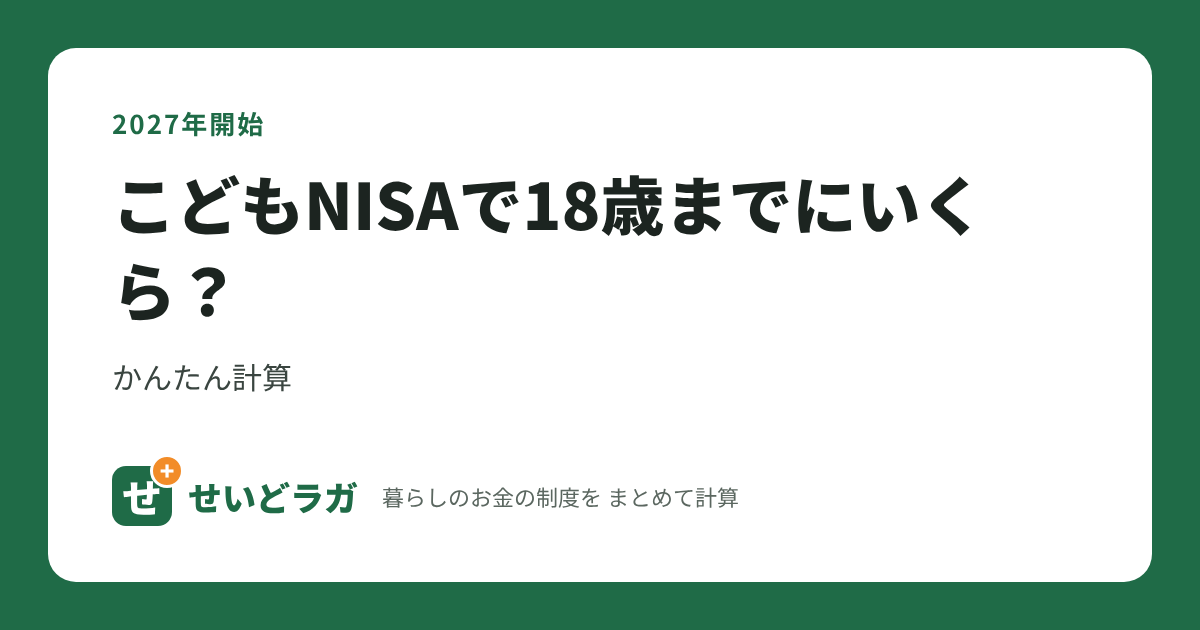
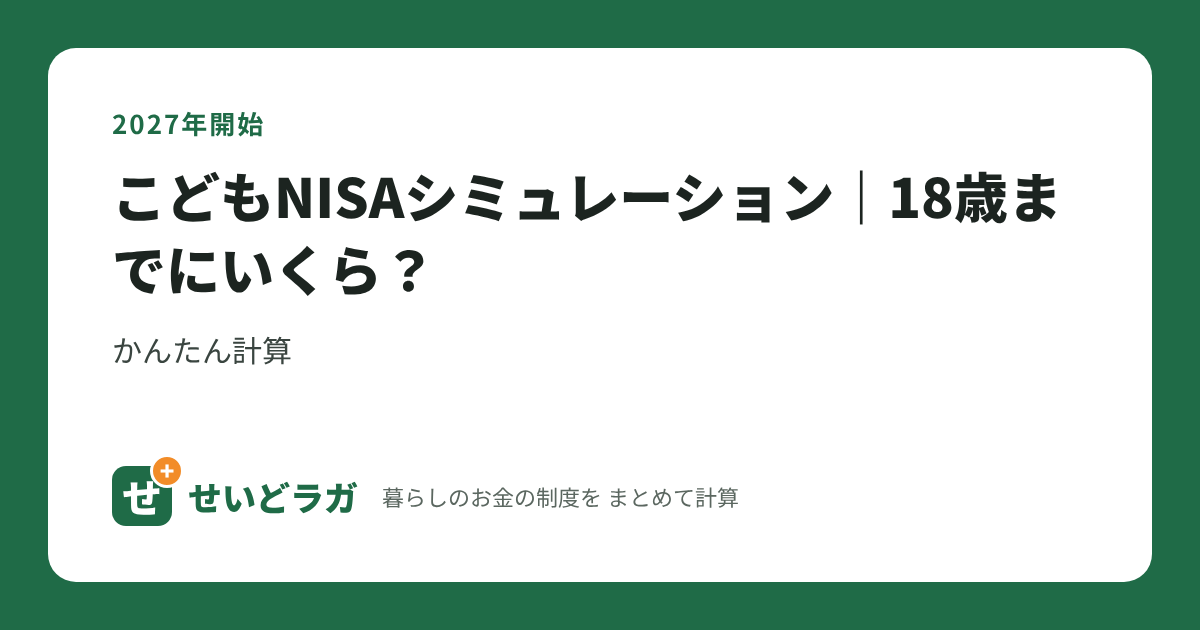
SEO：遺族年金の早見表（夫の年金月額別）・こどもNISAのタイトル

Changed region(s): [[0.0925, 0.2714, 0.8942, 0.5127], [0.0925, 0.5127, 0.2467, 0.6333]]

diff --git a/kodomo-nisa/index.html b/kodomo-nisa/index.html
@@ -17,7 +17,7 @@
 <link rel="icon" href="/favicon.ico" sizes="48x48">
 <link rel="icon" type="image/png" sizes="192x192" href="/assets/icon-192.png">
 <link rel="apple-touch-icon" href="/assets/apple-touch-icon.png">
-<title>こどもNISAで18歳までにいくら？かんたん計算【2027年開始】｜せいどラガ</title>
+<title>こどもNISAシミュレーション｜18歳までにいくら？かんたん計算【2027年開始】｜せいどラガ</title>
 <meta name="description" content="2027年1月から始まるこどもNISA。子どもの生まれ年月と毎月の積立額から、12歳・18歳ごろにいくらになるかをその場で計算できます。年60万円・上限600万円・12歳からの引き出しルールもやさしく解説。">
 <link rel="canonical" href="https://seidoraga.jp/kodomo-nisa/">
 <meta property="og:type" content="article">
@@ -219,7 +219,7 @@ footer a{color:var(--sub);margin-right:12px}
   <li><a href="https://www.nta.go.jp/taxes/shiraberu/taxanswer/zoyo/4402.htm" rel="noopener">国税庁 No.4402 贈与税がかかる場合</a></li>
 </ul>
 <p class="note">最終確認日：2026年11月7日／作成：<a href="/about/#unei">たかぎつとむ</a>（せいどラガ運営・A&amp;T Works）／計算は国税庁などの資料の計算式と自動で照らし合わせています（<a href="/about/#kakunin">確かめ方</a>）<br>このページは公表されている情報をもとに作っています。制度の細かい扱いは金融庁や各金融機関の案内でご確認ください。このページは制度の説明と計算のためのもので、特定の商品をすすめるものではありません。</p>
-<!--seo--><script type="application/ld+json">{"@context": "https://schema.org", "@graph": [{"@type": "BreadcrumbList", "itemListElement": [{"@type": "ListItem", "position": 1, "name": "トップ", "item": "https://seidoraga.jp/"}, {"@type": "ListItem", "position": 2, "name": "子ども・子育て", "item": "https://seidoraga.jp/#kodomo"}, {"@type": "ListItem", "position": 3, "name": "こどもNISAで18歳までにいくら？"}]}, {"@type": "WebPage", "name": "こどもNISAで18歳までにいくら？かんたん計算【2027年開始】", "url": "https://seidoraga.jp/kodomo-nisa/", "inLanguage": "ja", "image": "https://seidoraga.jp/assets/og/kodomo-nisa.png", "isPartOf": {"@type": "WebSite", "name": "せいどラガ", "url": "https://seidoraga.jp/"}, "author": {"@type": "Person", "name": "たかぎつとむ", "url": "https://seidoraga.jp/about/#unei"}, "publisher": {"@type": "Organization", "name": "せいどラガ", "url": "https://seidoraga.jp/", "logo": "https://seidoraga.jp/assets/icon-512.png"}, "description": "2027年1月から始まるこどもNISA。子どもの生まれ年月と毎月の積立額から、12歳・18歳ごろにいくらになるかをその場で計算できます。年60万円・上限600万円・12歳からの引き出しルールもやさしく解説。", "dateModified": "2026-11-19"}]}</script><!--/seo-->
+<!--seo--><script type="application/ld+json">{"@context": "https://schema.org", "@graph": [{"@type": "BreadcrumbList", "itemListElement": [{"@type": "ListItem", "position": 1, "name": "トップ", "item": "https://seidoraga.jp/"}, {"@type": "ListItem", "position": 2, "name": "子ども・子育て", "item": "https://seidoraga.jp/#kodomo"}, {"@type": "ListItem", "position": 3, "name": "こどもNISAで18歳までにいくら？"}]}, {"@type": "WebPage", "name": "こどもNISAシミュレーション｜18歳までにいくら？かんたん計算【2027年開始】", "url": "https://seidoraga.jp/kodomo-nisa/", "inLanguage": "ja", "image": "https://seidoraga.jp/assets/og/kodomo-nisa.png", "isPartOf": {"@type": "WebSite", "name": "せいどラガ", "url": "https://seidoraga.jp/"}, "author": {"@type": "Person", "name": "たかぎつとむ", "url": "https://seidoraga.jp/about/#unei"}, "publisher": {"@type": "Organization", "name": "せいどラガ", "url": "https://seidoraga.jp/", "logo": "https://seidoraga.jp/assets/icon-512.png"}, "description": "2027年1月から始まるこどもNISA。子どもの生まれ年月と毎月の積立額から、12歳・18歳ごろにいくらになるかをその場で計算できます。年60万円・上限600万円・12歳からの引き出しルールもやさしく解説。", "dateModified": "2026-11-23"}]}</script><!--/seo-->
 </main>
 <footer><div class="in">
   <a href="/">トップ</a><a href="/privacy/">プライバシーポリシー</a><a href="/terms/">利用規約</a><a href="/about/">運営者について</a>

diff --git a/izoku-nenkin/index.html b/izoku-nenkin/index.html
@@ -164,6 +164,13 @@ footer a{color:var(--sub);margin-right:12px}
 <table><thead><tr><th scope="col">夫の年金（月額・老齢基礎年金が満額として）</th><th scope="col">妻に自分の老齢厚生年金がない</th><th scope="col">妻の老齢厚生年金が月3万円</th><th scope="col">妻の老齢厚生年金が月6万円</th></tr></thead><tbody><tr><th scope="row">月12万円</th><td>月37,044円</td><td>月9,696円</td><td>月0円</td></tr><tr><th scope="row">月15万円</th><td>月59,544円</td><td>月29,544円</td><td>月9,696円</td></tr><tr><th scope="row">月18万円</th><td>月82,044円</td><td>月52,044円</td><td>月24,696円</td></tr><tr><th scope="row">月20万円</th><td>月97,044円</td><td>月67,044円</td><td>月37,044円</td></tr></tbody></table>
 <p class="note">夫の老齢基礎年金を満額（2026年度・月70,608円）として、夫の年金の合計から引いた額を老齢厚生年金とみなした目安です。これに妻自身の老齢基礎年金と老齢厚生年金が加わります。</p>
 <p>夫が亡くなったあとに家を相続して売るときは、売ったときの税金も気になります。<a href="/souzoku-ie-uru/">相続した家を売ると税金はいくら？</a>で、空き家の3,000万円控除をふくめて計算できます。</p>
+<h2 id="hayami65">早見表：年金をもらっている夫が亡くなったとき、65歳以上の妻はいくら？（月額）</h2>
+<table><thead><tr><th scope="col">夫の年金（月額）</th><th scope="col">うち夫の老齢厚生年金</th><th scope="col">妻の遺族厚生年金（3/4）</th><th scope="col">妻が受け取る合計の目安</th></tr></thead><tbody>
+<tr><th scope="row">15万円</th><td>79,392円</td><td>59,544円</td><td>約13.0万円</td></tr>
+<tr><th scope="row">20万円</th><td>129,392円</td><td>97,044円</td><td>約16.8万円</td></tr>
+<tr><th scope="row">25万円</th><td>179,392円</td><td>134,544円</td><td>約20.5万円</td></tr>
+</tbody></table>
+<p class="note">2026年度の額で、夫と妻の老齢基礎年金がどちらも満額（月70,608円）、妻に自分の老齢厚生年金がない場合の目安です。夫の年金から老齢基礎年金を引いた残りを老齢厚生年金（報酬比例部分）とみなし、その3/4を遺族厚生年金にしています。妻に自分の老齢厚生年金があると、その分は遺族厚生年金から差し引かれます。夫の加給年金・経過的加算などは入れていません。自分の条件では<a href="#nenkin65">上の計算</a>で確かめてください。</p>
 <h2 id="hayami">早見表：夫が在職中に亡くなった場合の遺族年金（年額）</h2>
 <table><thead><tr><th scope="col">夫の毎月の給与（賞与は年2回で給与の4か月分）</th><th scope="col">遺族厚生年金</th><th scope="col">妻＋子1人</th><th scope="col">妻＋子2人</th><th scope="col">子が対象外になったあと（中高齢寡婦加算の条件を満たす妻・40〜64歳）</th></tr></thead><tbody><tr><th scope="row">30万円</th><td>493,290円</td><td>1,584,390円<br><small>月132,032円</small></td><td>1,828,190円<br><small>月152,349円</small></td><td>1,128,790円<br><small>月94,065円</small></td></tr><tr><th scope="row">40万円</th><td>657,720円</td><td>1,748,820円<br><small>月145,735円</small></td><td>1,992,620円<br><small>月166,051円</small></td><td>1,293,220円<br><small>月107,768円</small></td></tr><tr><th scope="row">50万円</th><td>822,150円</td><td>1,913,250円<br><small>月159,437円</small></td><td>2,157,050円<br><small>月179,754円</small></td><td>1,457,650円<br><small>月121,470円</small></td></tr></tbody></table>
 <p class="note">厚生年金に入っていた300か月がすべて2003年4月以降で、給与・賞与が加入期間中ずっと同じだったと仮定した概算です。妻が遺族基礎年金を受け取れる（受給要件を満たす）場合です。いちばん右の列は、中高齢寡婦加算の条件を満たす妻の場合です。</p>
